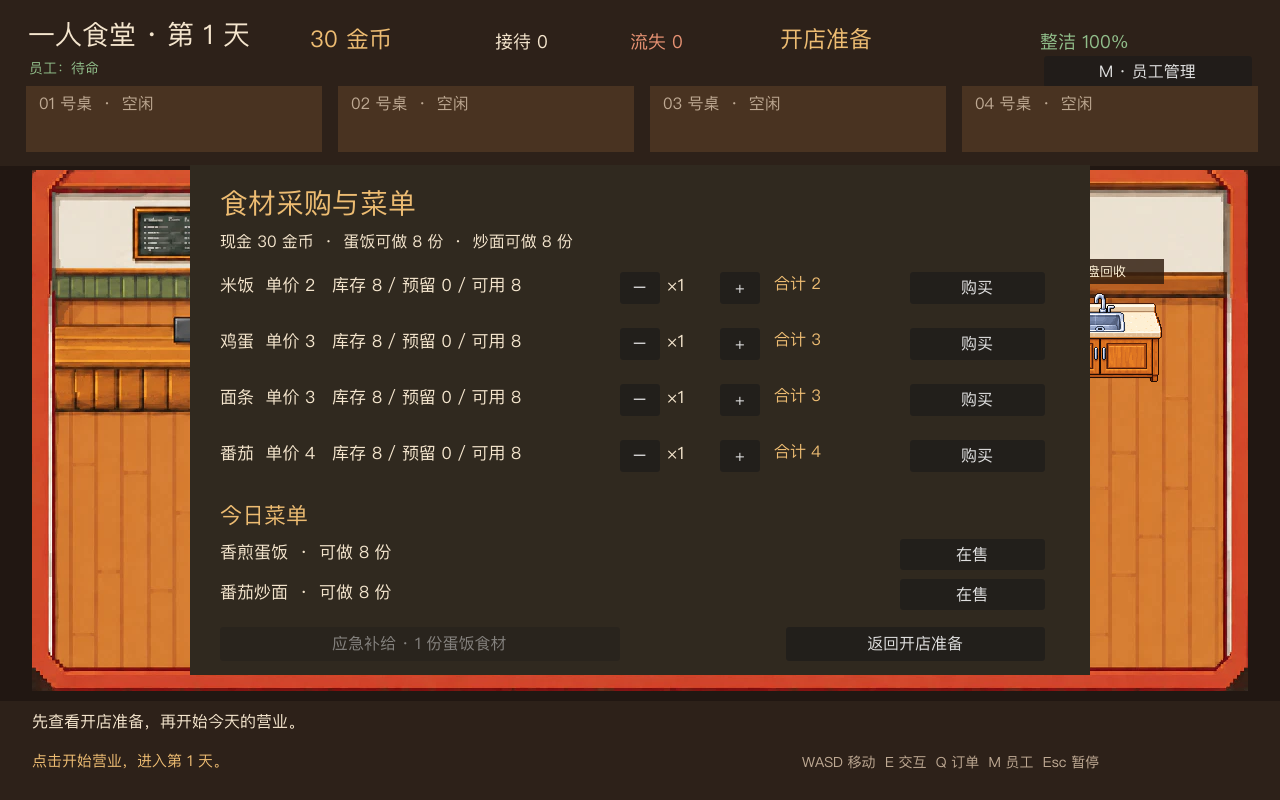
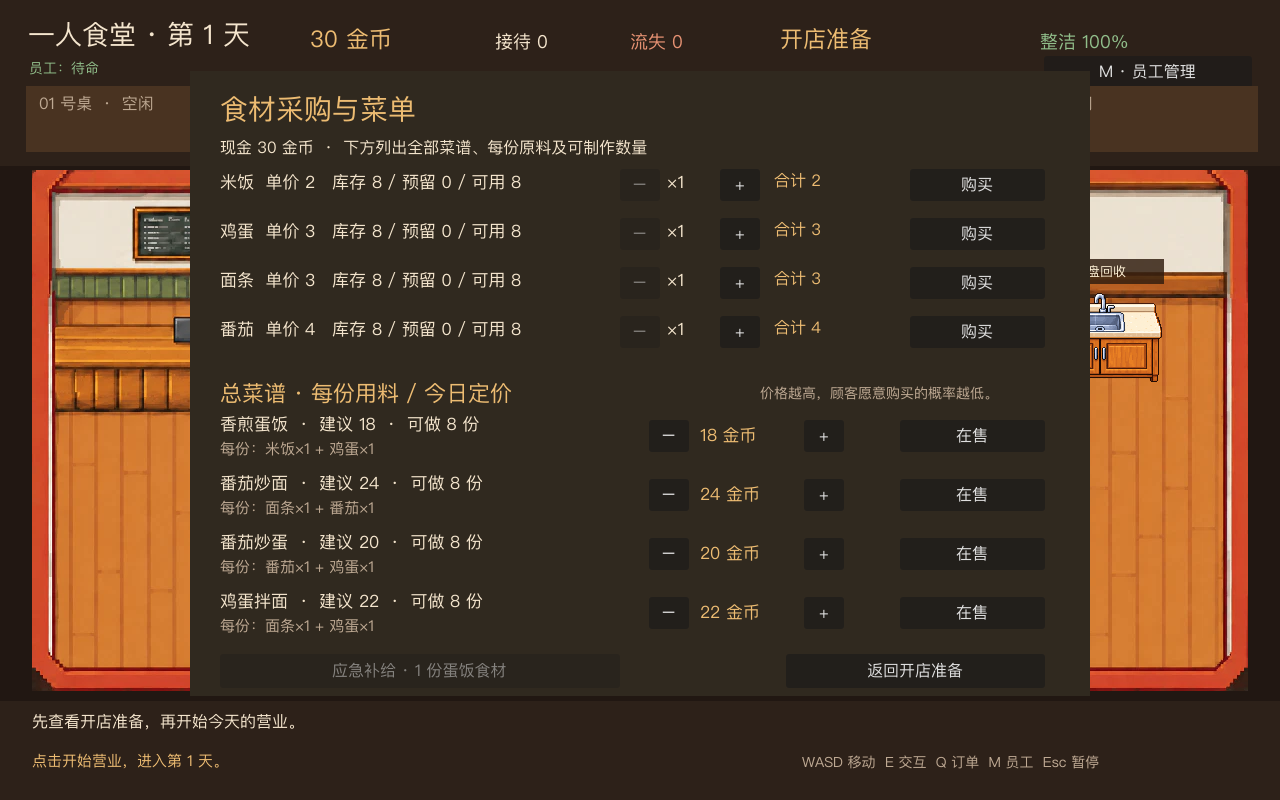
Add four-dish recipes and customer price choices

diff --git a/docs/stage-4-2.md b/docs/stage-4-2.md
@@ -1,6 +1,6 @@
 # 阶段 4.2：食材采购与菜单
 
-开店准备界面新增“采购与菜单”。玩家可按食材查看单价、库存、已预留、可用量，选择 1～20 份并购买；购买立即从阶段 4.1 账本扣款。界面还显示两道菜当前可制作的份数，可在开店前决定是否出售。营业中不能采购或改菜单。
+开店准备界面新增“采购与菜单”。玩家可按食材查看单价、库存、已预留、可用量，选择 1～20 份并购买；购买立即从阶段 4.1 账本扣款。下方的总菜谱列出四道菜每份所需原料、建议售价、今日售价和可制作份数。开店前可以调整在售状态与售价；营业中不能修改。
 
 ![采购与菜单实际画面](stage-4-2-store.webp)
 
@@ -9,15 +9,16 @@
 | 食材 | 单价 | 新游戏库存 | 用于菜品 |
 |---|---:|---:|---|
 | 米饭 | 2 | 8 | 香煎蛋饭 ×1 |
-| 鸡蛋 | 3 | 8 | 香煎蛋饭 ×1 |
-| 面条 | 3 | 8 | 番茄炒面 ×1 |
-| 番茄 | 4 | 8 | 番茄炒面 ×1 |
+| 鸡蛋 | 3 | 8 | 香煎蛋饭、番茄炒蛋、鸡蛋拌面各 ×1 |
+| 面条 | 3 | 8 | 番茄炒面、鸡蛋拌面各 ×1 |
+| 番茄 | 4 | 8 | 番茄炒面、番茄炒蛋各 ×1 |
 
-新游戏另有 30 金币启动资金。蛋饭售价 18、食材成本估计 5；炒面售价 24、食材成本估计 7。品质加成仍按小游戏结果计算。这组数值先保证已有营业日可正常试玩；正式工资和扩建费用加入后再统一调优。
+新游戏另有 30 金币启动资金。四道菜的建议售价依次为 18、24、20、22 金币；食材成本依次为 5、7、7、6 金币。玩家可把今日售价设在 1～99 金币之间。品质加成仍按小游戏结果计算。这组数值先保证已有营业日可正常试玩；正式工资和扩建费用加入后再统一调优。
 
 ## 订单与库存规则
 
-- 顾客生成订单时，只从**在售且食材可预留**的菜品中选择；原本轮到的菜缺货时尝试另一道。没有可履约菜品时不生成顾客，也不会占桌或透支库存。
+- 每位顾客从四道菜中形成三道候选菜，个人口味给出初始喜好；今日价格越高，购买概率越低，也可能改变三道菜的优先级。按优先级依次检查在售状态、食材库存与购买意愿；下单价格固定为当时的今日售价。
+- 首选不可购买时会尝试第二、第三道菜。改选的满意度分别从 100 降为 80、60，并在订单与评价中体现。三道都不买的顾客仍走入餐厅，在入口附近显示省略号停留约 3.5 秒，随后离开且计入流失；不占桌、不预留食材。
 - 订单进入餐厅时一次性预留该菜所需的全部食材。员工领取任务、主角接手员工预约任务都不会再次预留。
 - 主角或员工真正开始做菜时，食材从库存扣除并解除预留；同一次开工不会重复扣料。取消后重做属于新的开工，会再次消耗食材。
 - 开工前订单取消或超时会释放预留、保留库存。开工后取消或超时不返还已消耗的食材；取消后仅在还有可用食材时为重做重新预留。
@@ -30,6 +31,6 @@
 
 ## 验证
 
-`tests/test_inventory.gd` 覆盖采购付款与失败回滚、菜单停售、并发订单防超卖、员工预约与主角接手、开工前后取消、超时释放、跨日库存保留、应急补给及实际采购按钮。其他十组 Godot 回归测试继续运行。两张预览图均由 `tests/capture_stage_4_2.gd` 从游戏实际渲染生成，单张小于 400KB。
+`tests/test_inventory.gd` 覆盖采购付款与失败回滚、菜单停售、并发订单防超卖、员工预约与主角接手、开工前后取消、超时释放、跨日库存保留、应急补给及实际采购按钮。`tests/test_customer_choice.gd` 覆盖四菜谱、完整用料展示、动态价格、三选一回退、订单价格锁定、进店浏览与流失。其他十组 Godot 回归测试继续运行。两张预览图均由 `tests/capture_stage_4_2.gd` 从游戏实际渲染生成，单张小于 400KB。
 
 本版仍默认有一名员工，不扣工资；正式雇佣、工资预留及经营收益调优在 4.3 实现。
